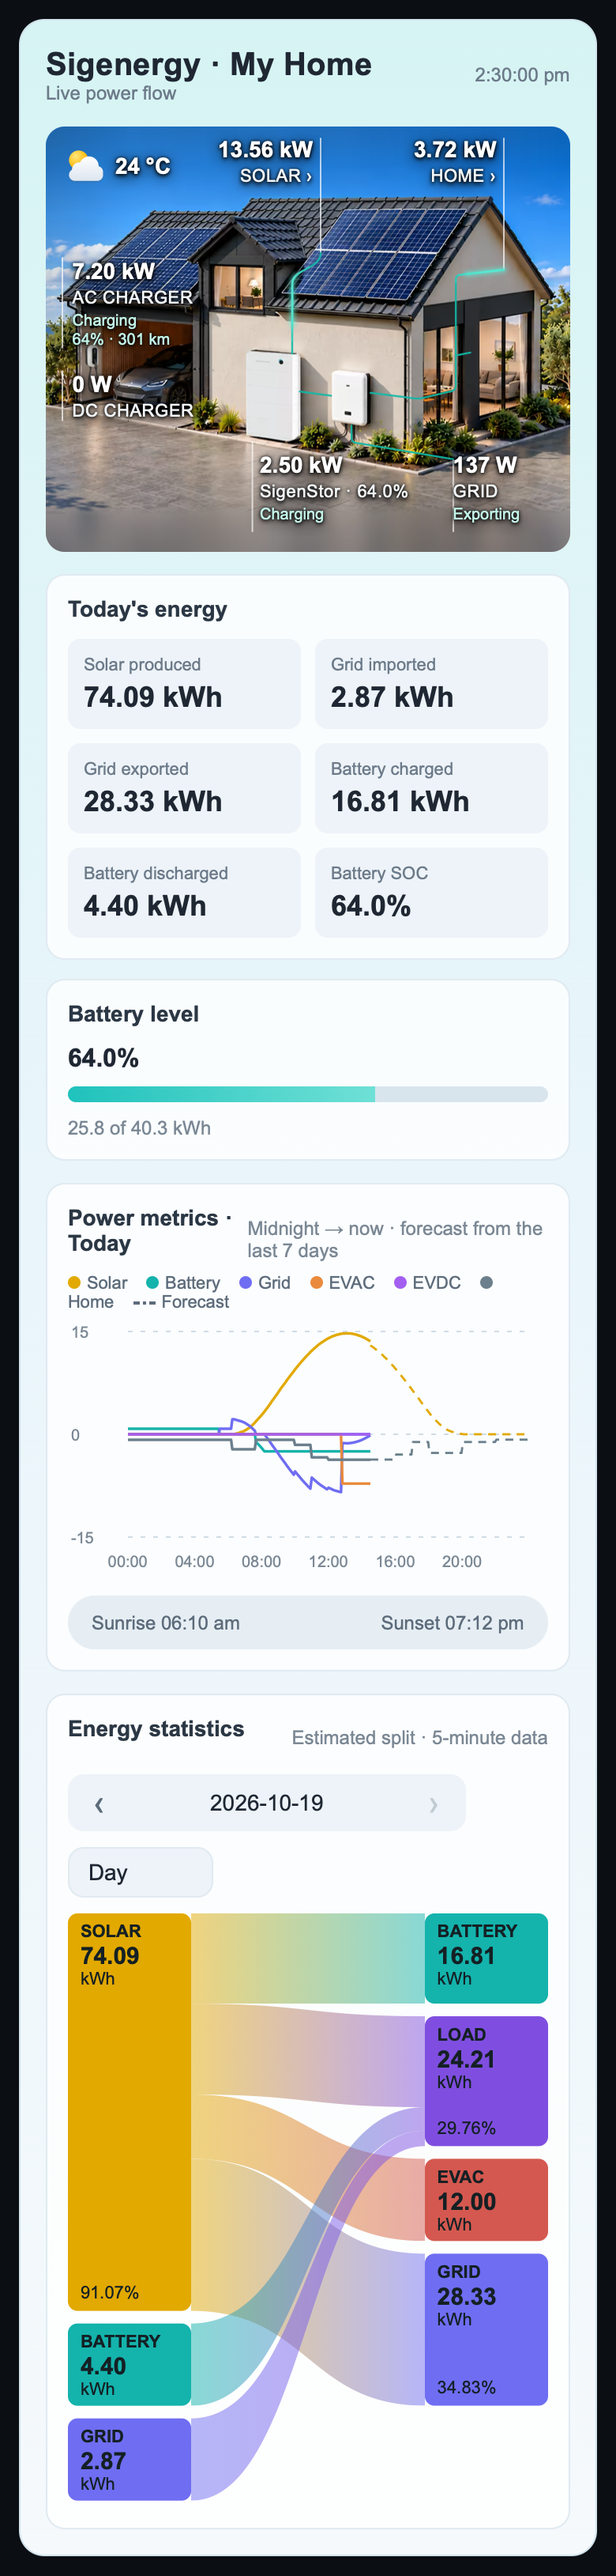
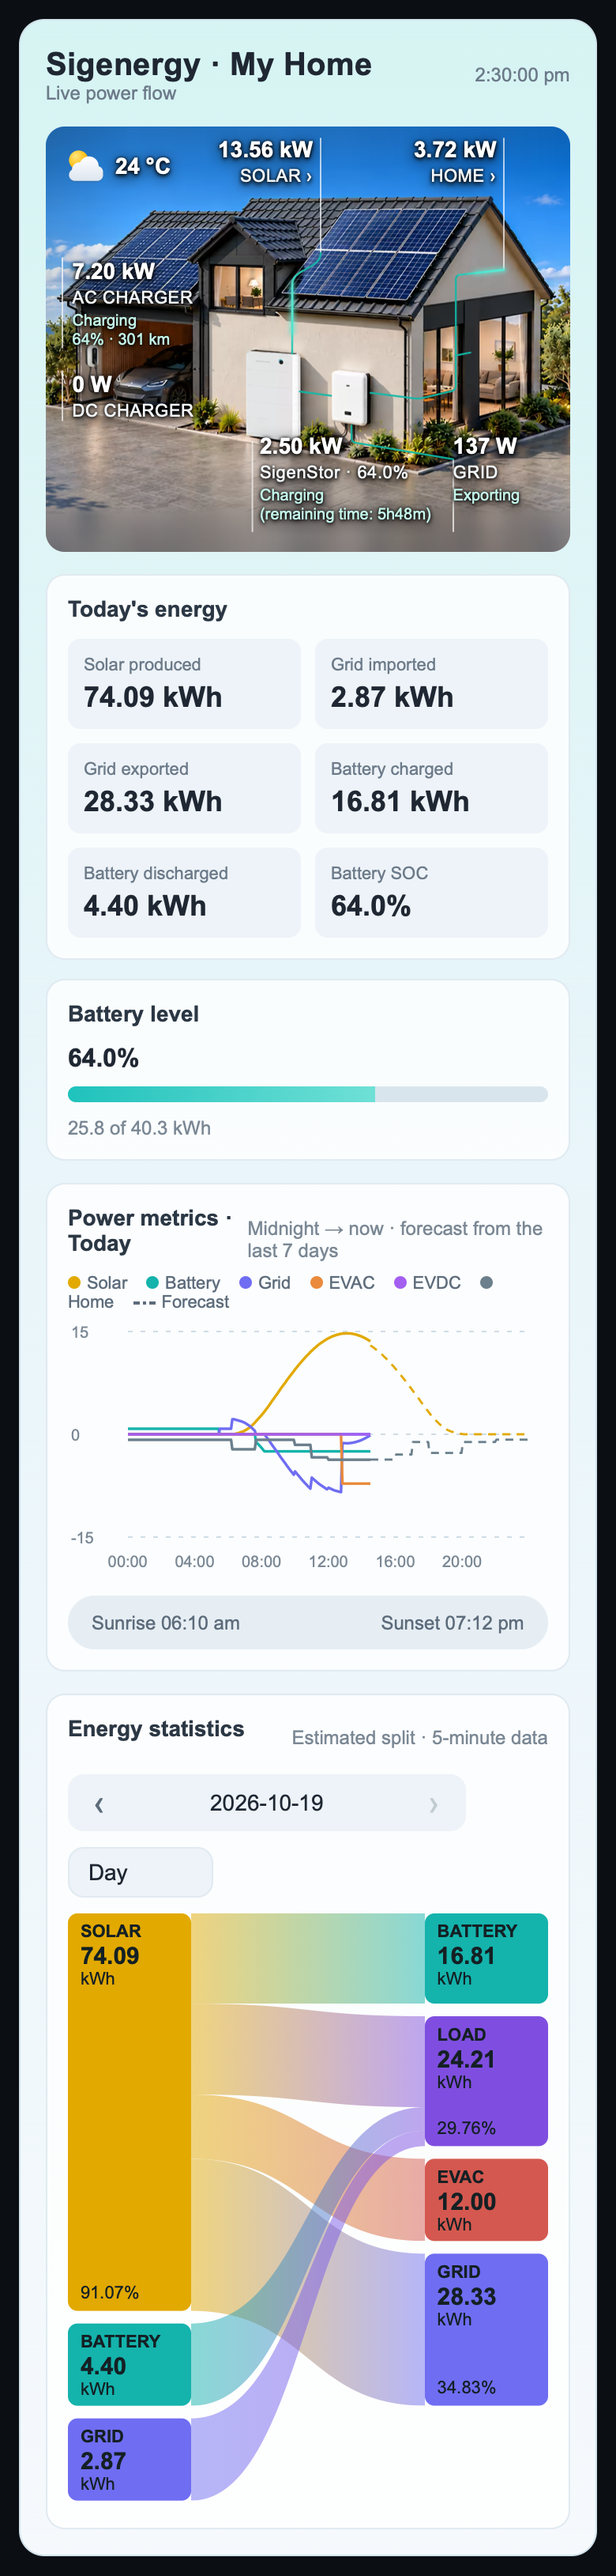
Mark the card file as v62 and refresh the screenshots
The README screenshots are regenerated with tools/screenshots.js, so the
main views show the battery's remaining time under SigenStor.

Changed region(s): [[0.4, 0.155, 0.7077, 0.217], [0.7385, 0.155, 0.8615, 0.217]]

diff --git a/sigenergy-flow-card.js b/sigenergy-flow-card.js
@@ -14,7 +14,7 @@
  * limitations under the License.
  */
 
-/* Sigenergy Flow Card v61 — standalone Home Assistant Lovelace custom card */
+/* Sigenergy Flow Card v62 — standalone Home Assistant Lovelace custom card */
 
 // Scene coordinates: the house photo (1676x557 units) sits between a band above it for the SOLAR and HOME
 // readings and a band below it for SigenStor and GRID. tools/embed-artwork.py builds both bands from
